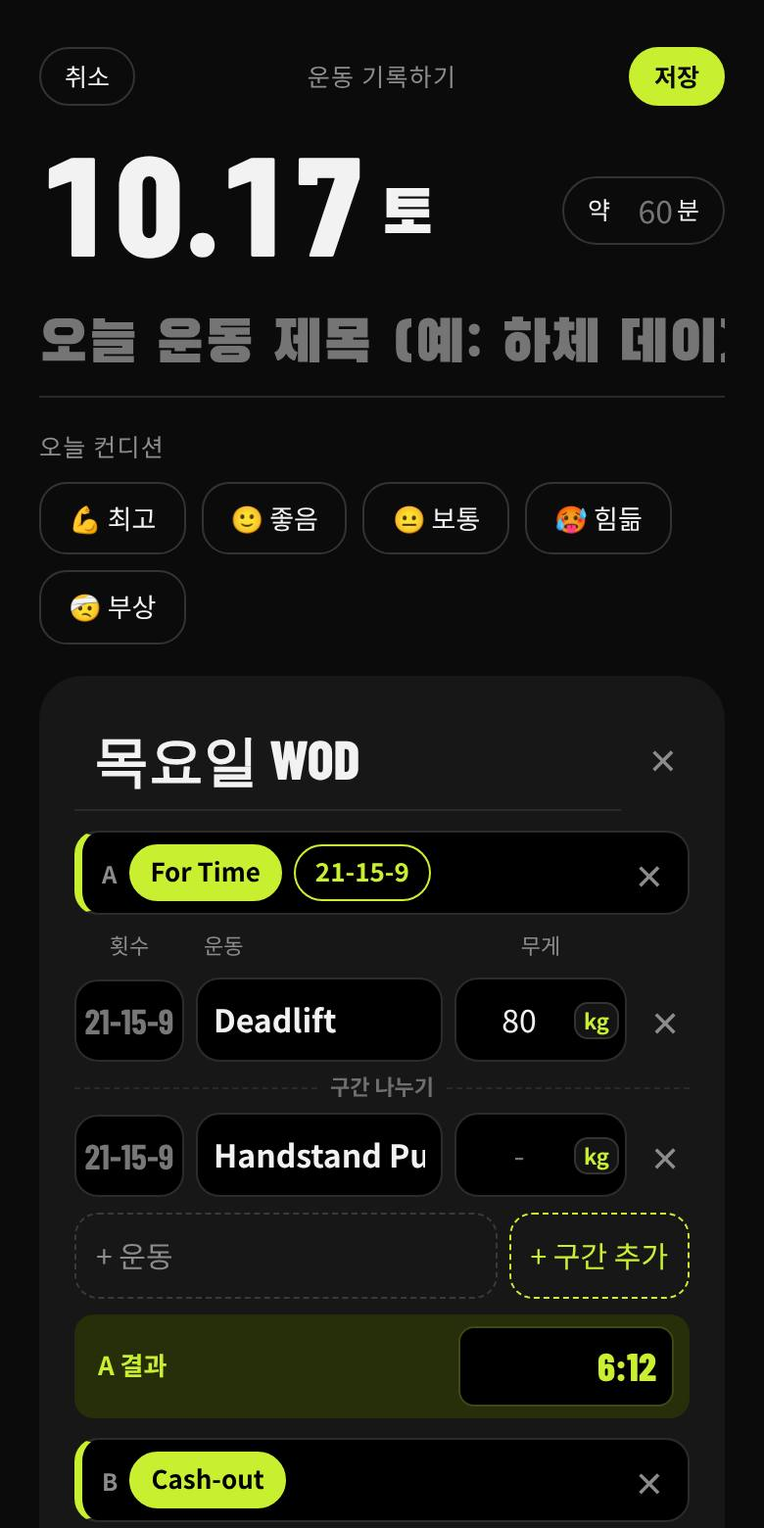
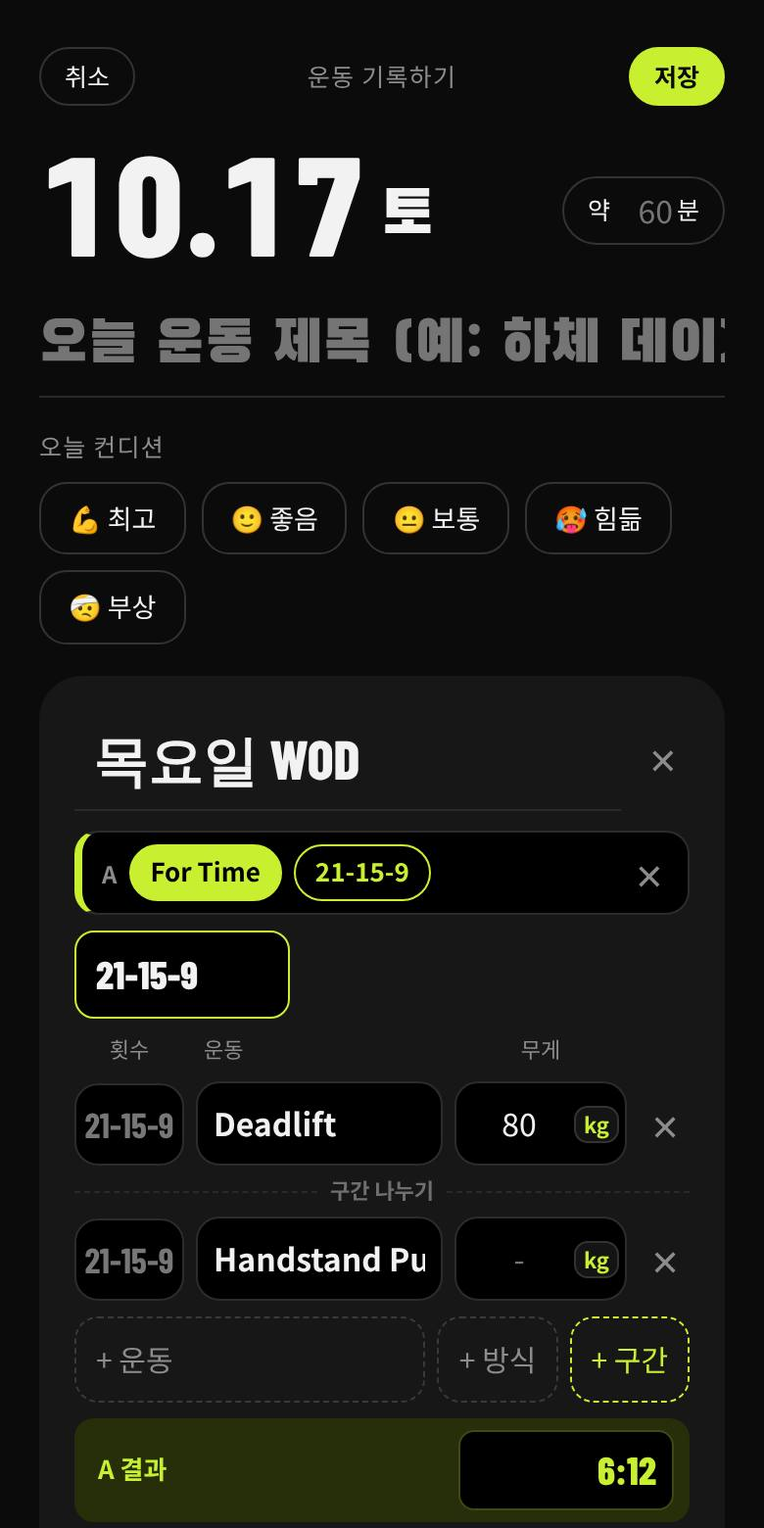
One 방식 chip list with multi-pick, n in a chip name gives a number box, + 방식 button
Claude-Session: https://claude.ai/code/session_019eoxjeUYsC1xCLQy9vy9QX

diff --git a/index.html b/index.html
@@ -345,7 +345,15 @@ const DEF_PATTERNS = [
 const patShape = t => t.tpl === 'N' ? t.label : t.tpl.replace('N', '□');
 const patLabel = p => !p ? '' : p.tpl ? (p.v ? p.tpl.replace('N', p.v) : patShape(p)) : p.kind === 'scheme' ? p.v : p.kind === 'rounds' ? `${p.v} 라운드` : `${p.v}분`;
 const schemeOf = p => p && (p.fill || p.kind === 'scheme') ? p.v || '' : '';
-const patFrom = (t, v) => t ? {t:t.id, label:t.label, tpl:t.tpl, fill:!!t.fill, v:v || ''} : null;
+const patFrom = (t, v) => t ? {t:t.id, label:t.label, tpl:t.tpl || t.label, fill:!!t.fill, ...(t.res ? {res:t.res} : {}), v:v || ''} : null;
+/* 방식 chips: formats and number chips ("N 라운드") are one list to the user; any number of them can be picked */
+const chipById = id => state.formats.find(x => x.id === id) || state.patterns.find(x => x.id === id);
+const chipKind = x => state.formats.includes(x) ? 'fmt' : 'pat';
+const chipText = x => x.tpl ? patShape(x) : x.label;
+const hasN = x => !!x.tpl && x.tpl.includes('N');
+/* "n 라운드", "Team of n", "AMRAP n분": a standalone n (or □) is the number typed on each record */
+const N_RE = /(^|[^A-Za-z])[Nn□_](?=[^A-Za-z]|$)/;
+const partRes = p => (p.fmt?.id !== 'none' && p.fmt?.res) || pList(p).map(x => x.res).find(Boolean) || 'text';
 const pList = p => p.pats || (p.pat ? [p.pat] : []);
 const patsLabel = p => pList(p).map(patLabel).filter(Boolean).join(' · ');
 const schemeOfP = p => pList(p).map(schemeOf).find(Boolean) || '';
@@ -547,7 +555,7 @@ function itemText(it) {
 }
 const summary = s => s.items.map(itemText).join(' · ');
 const setsText = (it, ex) => it.sets.map(x => it.fields.map(k => x[k] ? `${x[k]}${k === 'd' ? ex.unit : ''}` : '').filter(Boolean).join(' × ')).filter(Boolean).join(' · ');
-const resType = it => (it.parts?.length > 1 ? 'time' : it.parts?.[0]?.fmt?.res) || 'text';
+const resType = it => it.parts?.length > 1 ? 'time' : it.parts?.[0] ? partRes(it.parts[0]) : 'text';
 function fmtRes(v, type) {
   v = String(v || '').trim(); if (!v) return '';
   if (type === 'rr') { const m = v.match(/^(\d+)\s*[+rR]\s*\+?\s*(\d+)$/); if (m) return `${m[1]}R+${m[2]}`; if (/^\d+$/.test(v)) return `${v}R`; }
@@ -559,7 +567,7 @@ function wodResult(it) { const r = it.res || {};
   if (r.status === 'DNF') return `DNF${r.short ? ' -' + String(r.short).replace(/^-/, '') : ''}`;
   if (r.status === 'DONE') return r.v ? `DONE ${fmtRes(r.v, resType(it))}` : 'DONE';
   return fmtRes(r.v, resType(it)); }
-const partResult = p => p.res?.status === 'DONE' ? 'DONE' : fmtRes(p.res?.v, p.fmt?.res);
+const partResult = p => p.res?.status === 'DONE' ? 'DONE' : fmtRes(p.res?.v, partRes(p));
 const resScore = (v, type) => { v = String(v || ''); if (type === 'time') return -msToSec(v); if (type === 'rr') { const m = v.match(/^(\d+)\D*(\d+)?$/); return m ? +m[1] * 1000 + (+m[2] || 0) : NaN; } return parseFloat(v); };
 function bestWod(id, exceptSessionId) {
   if (!id) return null;
@@ -714,7 +722,7 @@ function newDraft(date, plan) {
 function exItem(id, date) { const ex = exById(id); const prev = prevSetsFor(id, date); return {type:'ex', id:uid(), exId:id, fields:[...ex.fields], wu:prev?.wu || U(), sets:prev ? prev.map(x => ({...x})) : [{}], prefilled:!!prev}; }
 const blankMove = () => ({n:'', exId:null, q:'', w:''});
 function wodItem(w) { return {type:'wod', id:uid(), wodId:w.id, name:w.name, scale:'Rx', res:{}, parts:w.parts.map(p => ({fmt:{...p.fmt}, pats:pList(p).map(x => ({...x})), res:{}, moves:p.moves.map(m => { const ex = (m.exId && exById(m.exId)) || findEx(m.n); return {n:ex?.name || m.n, exId:ex?.id || null, q:m.q || '', w:m.w || '', rx:m.w || ''}; })}))}; }
-const dailyItem = () => ({type:'wod', id:uid(), wodId:null, name:'', scale:'Rx', res:{}, parts:[{fmt:fmtCopy(state.formats[0] || DEF_FORMATS[0]), pats:[], res:{}, moves:[blankMove(), blankMove()]}]});
+const dailyItem = () => ({type:'wod', id:uid(), wodId:null, name:'', scale:'Rx', res:{}, parts:[{fmt:{...NO_FMT}, pats:[], res:{}, moves:[blankMove(), blankMove()]}]});
 /* the item list the WOD card is editing: a day's record, or a saved WOD template */
 const curItems = () => ui.page === 'tpl' ? ui.tdraft.items : ui.draft.items;
 function pageEdit() {
@@ -752,12 +760,34 @@ function exEditCard(it, i) {
 const findEx = name => state.exercises.find(e => exIs(e, name));
 /* WOD card: each part is a frame (format + pattern) followed by its exercises; a frame can be inserted between exercises */
 function usage() { const c = {}; for (const s of state.sessions) for (const it of s.items) { if (it.type === 'ex') c[it.exId] = (c[it.exId] || 0) + 1; else wodMoves(it).forEach(m => { if (m.exId) c[m.exId] = (c[m.exId] || 0) + 1; }); } return c; }
-/* one chip row: formats (pick one) and patterns (pick several); a pattern with N shows its number box below */
+/* one 방식 row: tap to pick or unpick, several at once; a chip with N shows its number box below */
+const chipList = () => [...state.formats, ...state.patterns];
+const chipOn = (fmtId, pats, x) => fmtId === x.id || pats.some(y => y.t === x.id);
 function frameChips(i, pi, p) {
-  const ed = ui.frEdit, ps = pList(p), on = t => ps.some(x => x.t === t.id);
-  if (ed) return `<div class="chips2">${state.formats.map(f => `<button class="c2" data-action="fr-edit" data-kind="fmt" data-id="${f.id}">${esc(f.label)}<span class="x" data-action="fr-del" data-kind="fmt" data-id="${f.id}" role="button" aria-label="${esc(f.label)} 삭제">✕</span></button>`).join('')}${state.patterns.map(t => `<button class="c2" data-action="fr-edit" data-kind="pat" data-id="${t.id}">${esc(patShape(t))}<span class="x" data-action="fr-del" data-kind="pat" data-id="${t.id}" role="button" aria-label="${esc(t.label)} 삭제">✕</span></button>`).join('')}<button class="c2 add" data-action="fr-edit" data-kind="fmt">+ 방식</button><button class="c2 add" data-action="fr-edit" data-kind="pat">+ 패턴</button></div>`;
-  return `<div class="chips2">${state.formats.map(f => `<button class="c2 ${p.fmt.id === f.id ? 'on' : ''}" data-action="set-fmt" data-i="${i}" data-pi="${pi}" data-v="${f.id}" data-lp="fmt:${f.id}">${esc(f.label)}</button>`).join('')}${state.patterns.map(t => `<button class="c2 ${on(t) ? 'val' : ''}" data-action="set-pat" data-i="${i}" data-pi="${pi}" data-v="${t.id}" data-lp="pat:${t.id}">${esc(patShape(t))}</button>`).join('')}<button class="c2 ${p.fmt.id === 'none' && !ps.length ? 'on' : ''}" data-action="set-fmt" data-i="${i}" data-pi="${pi}" data-v="none">없음</button></div>
-    ${ps.map((x, k) => { const t = state.patterns.find(y => y.id === x.t) || x; return patInput(t, x.v, `data-patv="${pi}" data-pk="${k}" data-i="${i}"`) + recentPat(t, `data-action="set-patv" data-i="${i}" data-pi="${pi}" data-pk="${k}"`); }).join('')}`;
+  const ps = pList(p);
+  if (ui.frEdit) return `<div class="chips2">${chipList().map(x => `<button class="c2" data-action="fr-edit" data-kind="${chipKind(x)}" data-id="${x.id}">${esc(chipText(x))}<span class="x" data-action="fr-del" data-kind="${chipKind(x)}" data-id="${x.id}" role="button" aria-label="${esc(x.label)} 삭제">✕</span></button>`).join('')}<button class="c2 add" data-action="fr-edit">+ 추가</button></div>`;
+  return `<div class="chips2">${chipList().map(x => `<button class="c2 ${chipOn(p.fmt.id, ps, x) ? 'on' : ''}" data-action="set-chip" data-i="${i}" data-pi="${pi}" data-v="${x.id}" data-lp="${chipKind(x)}:${x.id}">${esc(chipText(x))}</button>`).join('')}<button class="c2 ${p.fmt.id === 'none' && !ps.length ? 'on' : ''}" data-action="set-chip" data-i="${i}" data-pi="${pi}" data-v="none">없음</button></div>
+    ${patBoxes(i, pi, p)}`;
+}
+function patBoxes(i, pi, p, short) {
+  const ps = pList(p), dup = x => ps.filter(y => y.t === x.t).length > 1;
+  return ps.map((x, k) => hasN(x) ? `<div class="row" style="gap:6px">${patInput(chipById(x.t) || x, x.v, `data-patv="${pi}" data-pk="${k}" data-i="${i}"`)}${dup(x) ? `<button class="icon" data-action="pat-del" data-i="${i}" data-pi="${pi}" data-pk="${k}" aria-label="${esc(x.label)} 빼기">✕</button>` : ''}</div>` + (short ? '' : recentPat(chipById(x.t) || x, `data-action="set-patv" data-i="${i}" data-pi="${pi}" data-pk="${k}"`)) : '').join('');
+}
+/* "+ 방식": one more chip in the same group of exercises (21-15-9 and 42-30-18 together), no new section */
+function sheetChipAdd(i, pi) {
+  ui.sheet = () => sheetChipAdd(i, pi);
+  openSheet(`<div class="row between"><h2 class="disp" style="font-size:28px">방식 추가</h2><button class="pill" data-action="close-sheet">닫기</button></div>
+    <div class="sub" style="font-size:13px">구간을 나누지 않고 이 운동들에 방식을 하나 더 넣어요. 같은 칩도 여러 번 넣을 수 있어요. 예: 21-15-9 + 42-30-18</div>
+    <div class="chips2">${chipList().map(x => `<button class="c2" data-action="chip-add-pick" data-i="${i}" data-pi="${pi}" data-v="${x.id}">${esc(chipText(x))}</button>`).join('')}</div>`);
+}
+/* pick or unpick chip id on {fmt, pats}; the first picked format chip stays in fmt (it sets how the result is written) */
+function toggleChip(fmt, pats, id) {
+  if (id === 'none') return {fmt:NO_FMT, pats:[]};
+  const x = chipById(id); if (!x) return {fmt, pats};
+  if (fmt.id === id) { const k = pats.findIndex(y => state.formats.some(f => f.id === y.t)); if (k < 0) return {fmt:NO_FMT, pats}; const f = chipById(pats[k].t); return {fmt:f ? fmtCopy(f) : NO_FMT, pats:pats.filter((_, n) => n !== k)}; }
+  if (pats.some(y => y.t === id)) return {fmt, pats:pats.filter(y => y.t !== id)};
+  if (chipKind(x) === 'fmt' && fmt.id === 'none') return {fmt:fmtCopy(x), pats};
+  return {fmt, pats:[...pats, patFrom(x, '')]};
 }
 /* the number goes where N sits in the chip, e.g. "Team of [3]" */
 function patInput(t, v, attrs) {
@@ -776,15 +806,15 @@ function resInput(attrs, v, type) {
 function partHtml(it, i, p, pi) {
   const multi = it.parts.length > 1, scheme = schemeOfP(p);
   const head = multi
-    ? `<div class="fdiv"><span class="t">${String.fromCharCode(65 + pi)}</span><button class="c2 on" data-action="frame-edit" data-i="${i}" data-pi="${pi}">${esc(p.fmt.label || '방식 없음')}</button>${pList(p).map(x => `<button class="c2 val" data-action="frame-edit" data-i="${i}" data-pi="${pi}">${esc(patLabel(x))}</button>`).join('')}<span class="grow"></span><button class="icon" data-action="part-del" data-i="${i}" data-pi="${pi}" aria-label="${String.fromCharCode(65 + pi)} 구간 없애기">✕</button></div>`
+    ? `<div class="fdiv"><span class="t">${String.fromCharCode(65 + pi)}</span><button class="c2 on" data-action="frame-edit" data-i="${i}" data-pi="${pi}">${esc(p.fmt.label || '방식 없음')}</button>${pList(p).map(x => `<button class="c2 val" data-action="frame-edit" data-i="${i}" data-pi="${pi}">${esc(patLabel(x))}</button>`).join('')}<span class="grow"></span><button class="icon" data-action="part-del" data-i="${i}" data-pi="${pi}" aria-label="${String.fromCharCode(65 + pi)} 구간 없애기">✕</button></div>${patBoxes(i, pi, p, true)}`
     : `<div class="frame"><div class="row between"><span class="lbl">구성</span><button class="pill ${ui.frEdit ? 'lime' : ''}" style="font-size:12px;padding:3px 10px" data-action="fr-toggle">${ui.frEdit ? '완료' : '편집'}</button></div>${frameChips(i, pi, p)}${ui.frEdit ? '<div class="sub" style="font-size:12px">칩을 누르면 수정, ✕는 삭제예요. 칩을 꾹 누르면 순서도 바꿀 수 있어요.</div>' : ''}</div>`;
   const ord = ui.mvOrder === i, first = pi === 0, last = pi === it.parts.length - 1;
   const rows = ord ? p.moves.map((m, j) => `<div class="mvo"><span class="q">${esc(qTxt(m.q) || scheme || '')}</span><span class="t">${esc(m.n || '(빈 칸)')}</span>${m.w ? `<span class="w">${esc(m.w)}</span>` : ''}<button class="icon" data-action="mv-move" data-i="${i}" data-pi="${pi}" data-j="${j}" data-d="-1" ${first && j === 0 ? 'disabled' : ''} aria-label="${j+1}번 위로">↑</button><button class="icon" data-action="mv-move" data-i="${i}" data-pi="${pi}" data-j="${j}" data-d="1" ${last && j === p.moves.length - 1 ? 'disabled' : ''} aria-label="${j+1}번 아래로">↓</button></div>`).join('')
     : p.moves.map((m, j) => `<div class="mv"><input class="q" data-mv="${j}" data-pi="${pi}" data-i="${i}" data-k="q" value="${esc(m.q)}" placeholder="${esc(scheme || '10')}" aria-label="${j+1}번 횟수"><input class="ex" data-mv="${j}" data-pi="${pi}" data-i="${i}" data-k="n" value="${esc(m.n)}" placeholder="운동" aria-label="${j+1}번 운동"><div class="wcell"><input class="w" data-mv="${j}" data-pi="${pi}" data-i="${i}" data-k="w" value="${esc(wNum(m.w))}" placeholder="-" aria-label="${j+1}번 무게"><button class="wu" data-action="mv-wu" data-i="${i}" data-pi="${pi}" data-j="${j}" aria-label="${j+1}번 무게 단위 바꾸기">${mvUnit(m)}</button></div><button class="icon" data-action="mv-del" data-i="${i}" data-pi="${pi}" data-j="${j}" aria-label="${j+1}번 운동 빼기">✕</button></div>
       <div class="sug" id="sug-${i}-${pi}-${j}"></div>${j < p.moves.length - 1 ? `<button class="ins" data-action="frame-insert" data-i="${i}" data-pi="${pi}" data-j="${j + 1}" aria-label="여기서 구간 나누기"><b>구간 나누기</b></button>` : ''}`).join('');
-  const pres = multi ? `<div class="secres"><span>${String.fromCharCode(65 + pi)} 결과</span>${p.fmt.res === 'done' ? `<button class="mini-p ${p.res?.status === 'DONE' ? 'on' : ''}" data-action="part-done" data-i="${i}" data-pi="${pi}">DONE</button>` : resInput(`data-pres="${pi}" data-i="${i}" aria-label="${String.fromCharCode(65 + pi)} 결과"`, p.res?.v, p.fmt.res)}</div>` : '';
+  const pres = multi ? `<div class="secres"><span>${String.fromCharCode(65 + pi)} 결과</span>${partRes(p) === 'done' ? `<button class="mini-p ${p.res?.status === 'DONE' ? 'on' : ''}" data-action="part-done" data-i="${i}" data-pi="${pi}">DONE</button>` : resInput(`data-pres="${pi}" data-i="${i}" aria-label="${String.fromCharCode(65 + pi)} 결과"`, p.res?.v, partRes(p))}</div>` : '';
   return `<div class="part">${head}${ord ? '' : '<div class="mv hd"><div>횟수</div><div>운동</div><div>무게</div><div></div></div>'}${rows}
-    ${ord ? (last ? `<button class="addex" style="color:#000;background:var(--lime);border-color:var(--lime);text-align:center;font-weight:700" data-action="mv-order" data-i="${i}">순서 바꾸기 완료</button>` : '') : `<div class="row" style="gap:6px"><button class="addex grow" data-action="mv-add" data-i="${i}" data-pi="${pi}">+ 운동</button>${last && wodMoves(it).length > 1 ? `<button class="addex" data-action="mv-order" data-i="${i}">순서</button>` : ''}<button class="addex" style="color:var(--lime);border-color:var(--lime)" data-action="frame-insert" data-i="${i}" data-pi="${pi}" data-j="${p.moves.length}">+ 구간 추가</button></div>`}
+    ${ord ? (last ? `<button class="addex" style="color:#000;background:var(--lime);border-color:var(--lime);text-align:center;font-weight:700" data-action="mv-order" data-i="${i}">순서 바꾸기 완료</button>` : '') : `<div class="row" style="gap:6px"><button class="addex grow" data-action="mv-add" data-i="${i}" data-pi="${pi}">+ 운동</button>${last && wodMoves(it).length > 1 ? `<button class="addex" data-action="mv-order" data-i="${i}">순서</button>` : ''}<button class="addex" data-action="chip-add" data-i="${i}" data-pi="${pi}">+ 방식</button><button class="addex" style="color:var(--lime);border-color:var(--lime)" data-action="frame-insert" data-i="${i}" data-pi="${pi}" data-j="${p.moves.length}">+ 구간</button></div>`}
     ${scheme && !multi ? `<div class="note">횟수는 구성(${esc(scheme)})에서 자동으로 채워져요</div>` : ''}${pres}</div>`;
 }
 /* live preview of what is being recorded, shown in the result box and redrawn on every keystroke */
@@ -851,10 +881,8 @@ function pagePlan() {
 /* wod tab */
 function framesHtml() {
   return `<div class="card" style="display:flex;flex-direction:column;gap:10px">
-    <div class="row between"><b>방식</b><span class="sub" style="font-size:12px">누르면 수정 · ✕ 삭제</span></div>
-    <div class="chips2">${state.formats.map(f => `<button class="c2" data-action="fr-edit" data-kind="fmt" data-id="${f.id}" data-lp="fmt:${f.id}">${esc(f.label)}<span class="sub" style="font-size:11px;margin-left:5px">${RES_TYPES[f.res]?.label || ''}</span><span class="x" data-action="fr-del" data-kind="fmt" data-id="${f.id}" role="button" aria-label="${esc(f.label)} 삭제">✕</span></button>`).join('')}<button class="c2 add" data-action="fr-edit" data-kind="fmt">+ 추가</button></div>
-    <div class="row between" style="margin-top:6px"><b>패턴</b></div>
-    <div class="chips2">${state.patterns.map(t => `<button class="c2" data-action="fr-edit" data-kind="pat" data-id="${t.id}" data-lp="pat:${t.id}">${esc(patShape(t))}<span class="x" data-action="fr-del" data-kind="pat" data-id="${t.id}" role="button" aria-label="${esc(t.label)} 삭제">✕</span></button>`).join('')}<button class="c2 add" data-action="fr-edit" data-kind="pat">+ 추가</button></div>
+    <div class="row between"><b>방식</b><span class="sub" style="font-size:12px">누르면 수정 · ✕ 삭제 · 여러 개 골라 써요</span></div>
+    <div class="chips2">${chipList().map(x => `<button class="c2" data-action="fr-edit" data-kind="${chipKind(x)}" data-id="${x.id}" data-lp="${chipKind(x)}:${x.id}">${esc(chipText(x))}${x.res ? `<span class="sub" style="font-size:11px;margin-left:5px">${RES_TYPES[x.res]?.label || ''}</span>` : ''}<span class="x" data-action="fr-del" data-kind="${chipKind(x)}" data-id="${x.id}" role="button" aria-label="${esc(x.label)} 삭제">✕</span></button>`).join('')}<button class="c2 add" data-action="fr-edit">+ 추가</button></div>
     <button class="btn out small" style="border-color:#333;color:var(--mut)" data-action="fr-reset">${ui.confirm === 'fr-reset' ? '한 번 더 누르면 기본 구성으로 되돌려요' : '기본 구성으로 되돌리기'}</button></div>
     <div class="sub" style="font-size:12px">구성을 지우거나 고쳐도 이미 저장한 기록은 그대로예요.</div>`;
 }
@@ -1029,8 +1057,8 @@ function sheetFrame() {
   const f = ui.frame;
   openSheet(`<div class="row between"><h2 class="disp" style="font-size:28px">${f.mode === 'insert' ? '구간 나누기' : '구성 바꾸기'}</h2><button class="pill solid" data-action="frame-apply">${f.mode === 'insert' ? '넣기' : '적용'}</button></div>
     <div class="row between"><span class="lbl">구성</span><button class="pill" style="font-size:12px;padding:3px 10px" data-action="frames-open">구성 편집</button></div>
-    <div class="chips2">${state.formats.map(x => `<button class="c2 ${f.fmt === x.id ? 'on' : ''}" data-action="frame-fmt" data-v="${x.id}" data-lp="fmt:${x.id}">${esc(x.label)}</button>`).join('')}${state.patterns.map(t => `<button class="c2 ${f.pats.some(x => x.t === t.id) ? 'val' : ''}" data-action="frame-pat" data-v="${t.id}" data-lp="pat:${t.id}">${esc(patShape(t))}</button>`).join('')}<button class="c2 ${f.fmt === 'none' && !f.pats.length ? 'on' : ''}" data-action="frame-fmt" data-v="none">없음</button></div>
-    ${f.pats.map((x, k) => { const t = state.patterns.find(y => y.id === x.t); return t ? patInput(t, x.v, `data-framepv="${k}"`) + recentPat(t, `data-action="frame-pv" data-pk="${k}"`) : ''; }).join('')}
+    <div class="chips2">${chipList().map(x => `<button class="c2 ${chipOn(f.fmt, f.pats, x) ? 'on' : ''}" data-action="frame-chip" data-v="${x.id}" data-lp="${chipKind(x)}:${x.id}">${esc(chipText(x))}</button>`).join('')}<button class="c2 ${f.fmt === 'none' && !f.pats.length ? 'on' : ''}" data-action="frame-chip" data-v="none">없음</button></div>
+    ${f.pats.map((x, k) => { const t = chipById(x.t); return t && hasN(t) ? patInput(t, x.v, `data-framepv="${k}"`) + recentPat(t, `data-action="frame-pv" data-pk="${k}"`) : ''; }).join('')}
     ${f.mode === 'insert' && f.below ? `<div class="sub" style="font-size:13px">아래에 있는 ${esc(f.below)}부터 새 구간이 시작돼요</div>` : ''}`);
 }
 function sheetTabs() {
@@ -1049,22 +1077,20 @@ function sheetFrames() {
 }
 function sheetFrEdit() {
   ui.sheet = sheetFrEdit;
-  const d = ui.fe, isF = d.kind === 'fmt';
-  openSheet(`<div class="row between"><h2 class="disp" style="font-size:28px">${isF ? '방식' : '패턴'} ${d.id ? '수정' : '추가'}</h2><button class="pill solid" data-action="fe-save">저장</button></div>
-    ${isF ? `<label class="field"><span class="lbl">칩에 보일 글자</span><input class="inp" id="feLabel" data-fe="label" value="${esc(d.label)}" placeholder="예: Chipper"></label>
-      <div class="field"><span class="lbl">결과는 어떻게 적어요?</span><div class="opt">${Object.entries(RES_TYPES).map(([k, r]) => `<button class="${d.res === k ? 'on' : ''}" data-action="fe-res" data-v="${k}">${r.label} <span>(${r.ex})</span></button>`).join('')}</div></div>
-      <label class="field"><span class="lbl">메모 (선택)</span><input class="inp" id="feNote" data-fe="note" value="${esc(d.note || '')}" placeholder="이 방식 설명"></label>`
-    : `<label class="field"><span class="lbl">칩 모양 (숫자 자리는 N)</span><input class="inp" id="feTpl" data-fe="tpl" value="${esc(d.tpl)}" placeholder="Team of N"></label>
-      <label class="field"><span class="lbl">칩에 보일 글자</span><input class="inp" id="feLabel" data-fe="label" value="${esc(d.label)}" placeholder="예: 팀 인원"></label>
-      <div class="field"><span class="lbl">숫자를 운동 줄 횟수에도 채울까요?</span><div class="opt">${[[false, '아니요 (5 라운드처럼)'], [true, '네 (21-15-9처럼)']].map(([v, l]) => `<button class="${!!d.fill === v ? 'on' : ''}" data-action="fe-fill" data-v="${v ? 1 : ''}">${l}</button>`).join('')}</div></div>
-      <div class="sub" style="font-size:13px">숫자는 저장하지 않아요. 기록할 때마다 칩 옆 칸에 적어요. 예: ${esc((d.tpl || 'Team of N').replace('N', '3'))}</div>`}
+  const d = ui.fe, n = N_RE.test(d.name || '');
+  openSheet(`<div class="row between"><h2 class="disp" style="font-size:28px">방식 ${d.id ? '수정' : '추가'}</h2><button class="pill solid" data-action="fe-save">저장</button></div>
+    <label class="field"><span class="lbl">칩 이름 (그때그때 숫자를 적을 자리는 n)</span><input class="inp" id="feName" data-fe="name" value="${esc(d.name)}" placeholder="예: Chipper, n 라운드, Team of n"></label>
+    <div class="sub" style="font-size:13px" id="feHint">${n ? `기록할 때 n 자리에 숫자 칸이 떠요. 예: ${esc(d.name.replace(N_RE, '$13'))}` : 'n을 넣으면 기록할 때 숫자를 적는 칸이 떠요.'}</div>
+    <div class="field"><span class="lbl">결과는 어떻게 적어요?</span><div class="opt"><button class="${!d.res ? 'on' : ''}" data-action="fe-res" data-v="">정하지 않음 <span>(다른 칩을 따라가요)</span></button>${Object.entries(RES_TYPES).map(([k, r]) => `<button class="${d.res === k ? 'on' : ''}" data-action="fe-res" data-v="${k}">${r.label} <span>(${r.ex})</span></button>`).join('')}</div></div>
+    ${n ? `<div class="field"><span class="lbl">숫자를 운동 줄 횟수에도 채울까요?</span><div class="opt">${[[false, '아니요 (5 라운드처럼)'], [true, '네 (21-15-9처럼)']].map(([v, l]) => `<button class="${!!d.fill === v ? 'on' : ''}" data-action="fe-fill" data-v="${v ? 1 : ''}">${l}</button>`).join('')}</div></div>` : ''}
+    <label class="field"><span class="lbl">메모 (선택)</span><input class="inp" id="feNote" data-fe="note" value="${esc(d.note || '')}" placeholder="이 방식 설명"></label>
     ${d.id ? `<button class="btn danger small" data-action="fe-del">${ui.confirm === 'fe-del' ? '한 번 더 누르면 삭제' : '삭제'}</button>` : ''}`);
 }
 function sheetChipMenu(kind, id) {
   ui.sheet = () => sheetChipMenu(kind, id);
-  const x = (kind === 'fmt' ? state.formats : state.patterns).find(v => v.id === id); if (!x) return closeSheet();
-  openSheet(`<h2 class="disp" style="font-size:28px">${esc(kind === 'fmt' ? x.label : patShape(x))}</h2>
-    <div class="menu"><button data-action="fr-edit" data-kind="${kind}" data-id="${id}">수정<span>이름, ${kind === 'fmt' ? '결과 방식' : '숫자'}</span></button>
+  const x = chipById(id); if (!x) return closeSheet(); kind = chipKind(x);
+  openSheet(`<h2 class="disp" style="font-size:28px">${esc(chipText(x))}</h2>
+    <div class="menu"><button data-action="fr-edit" data-kind="${kind}" data-id="${id}">수정<span>이름, 결과 방식</span></button>
       <button data-action="fr-copy" data-kind="${kind}" data-id="${id}">복사해서 새로 만들기<span></span></button>
       <button data-action="fr-up" data-kind="${kind}" data-id="${id}">앞으로 옮기기<span>칩 순서</span></button>
       <button data-action="fr-del" data-kind="${kind}" data-id="${id}" style="color:var(--red)">삭제<span>지난 기록은 그대로</span></button></div>`);
@@ -1174,6 +1200,16 @@ const A = {
   'add-ex': el => { const it = exItem(el.dataset.id, ui.draft.date); ui.draft.items.push(it); closeSheet(); render(true); toast(it.prefilled ? '지난 기록을 채웠어요' : '운동을 추가했어요'); setTimeout(() => $('#screen').scrollTo({top:$('#screen').scrollHeight, behavior:'smooth'}), 30); },
   'record-daily': () => { const d = newDraft(recordDate()); openEditor(d); A['add-daily'](); },
   'add-daily': () => { ui.draft.items.push(dailyItem()); closeSheet(); render(true); setTimeout(() => { const t = document.querySelectorAll('[data-wn]'); t[t.length - 1]?.closest('.card')?.scrollIntoView({block:'start'}); }, 30); },
+  'chip-add': el => sheetChipAdd(+el.dataset.i, +el.dataset.pi),
+  'chip-add-pick': el => { const i = el.dataset.i, pi = el.dataset.pi, p = curItems()[+i].parts[+pi], x = chipById(el.dataset.v); if (!x) return;
+    const before = partRes(p); p.pats = pList(p); delete p.pat;
+    if (chipKind(x) === 'fmt' && p.fmt.id === 'none') p.fmt = fmtCopy(x); else p.pats.push(patFrom(x, ''));
+    if (partRes(p) !== before) p.res = {}; closeSheet(); render(true);
+    if (hasN(x)) { const b = document.querySelectorAll(`[data-patv="${pi}"][data-i="${i}"]`); b[b.length - 1]?.focus(); } else toast(`${x.label}을(를) 넣었어요`); },
+  'pat-del': el => { const p = curItems()[+el.dataset.i].parts[+el.dataset.pi]; p.pats = pList(p).filter((_, k) => k !== +el.dataset.pk); delete p.pat; render(true); },
+  'set-chip': el => { const p = curItems()[+el.dataset.i].parts[+el.dataset.pi], before = partRes(p), n = toggleChip(p.fmt, pList(p), el.dataset.v);
+    p.fmt = n.fmt; p.pats = n.pats; delete p.pat; if (partRes(p) !== before) p.res = {};
+    render(true); const k = p.pats.findIndex(y => y.t === el.dataset.v); if (k >= 0 && hasN(p.pats[k])) document.querySelector(`[data-patv="${el.dataset.pi}"][data-pk="${k}"][data-i="${el.dataset.i}"]`)?.focus(); },
   'set-fmt': el => { const p = curItems()[+el.dataset.i].parts[+el.dataset.pi], f = fmtFind(el.dataset.v); if (f) { p.fmt = fmtCopy(f); p.res = {}; } if (el.dataset.v === 'none') { p.pats = []; delete p.pat; } render(true); },
   'set-pat': el => { const p = curItems()[+el.dataset.i].parts[+el.dataset.pi], t = state.patterns.find(x => x.id === el.dataset.v);
     p.pats = pList(p); delete p.pat; const k = t ? p.pats.findIndex(x => x.t === t.id) : -1;
@@ -1195,15 +1231,16 @@ const A = {
   'mv-quick': el => { const it = curItems()[+el.dataset.i], p = it.parts[it.parts.length - 1], ex = exById(el.dataset.id); if (!ex) return;
     const empty = p.moves.find(m => !m.n.trim()); if (empty) { empty.n = ex.name; empty.exId = ex.id; } else p.moves.push({...blankMove(), n:ex.name, exId:ex.id}); render(true); },
   'frame-insert': el => { const it = curItems()[+el.dataset.i], pi = +el.dataset.pi, j = +el.dataset.j, p = it.parts[pi];
-    ui.frame = {mode:'insert', i:+el.dataset.i, pi, j, fmt:p.fmt.id, pats:[], below:p.moves[j]?.n || ''}; sheetFrame(); },
+    ui.frame = {mode:'insert', i:+el.dataset.i, pi, j, fmt:'none', pats:[], below:p.moves[j]?.n || ''}; sheetFrame(); },
   'frame-edit': el => { const p = curItems()[+el.dataset.i].parts[+el.dataset.pi];
     ui.frame = {mode:'edit', i:+el.dataset.i, pi:+el.dataset.pi, fmt:p.fmt.id, pats:pList(p).map(x => ({t:x.t, v:x.v}))}; sheetFrame(); },
+  'frame-chip': el => { const f = ui.frame, n = toggleChip(fmtFind(f.fmt) || NO_FMT, f.pats.map(x => ({...patFrom(chipById(x.t), x.v), t:x.t})), el.dataset.v); f.fmt = n.fmt.id; f.pats = n.pats.map(x => ({t:x.t, v:x.v})); refreshSheet(); },
   'frame-fmt': el => { ui.frame.fmt = el.dataset.v; if (el.dataset.v === 'none') ui.frame.pats = []; refreshSheet(); },
   'frame-pat': el => { const f = ui.frame, v = el.dataset.v, k = f.pats.findIndex(x => x.t === v);
     if (!v) f.pats = []; else if (k >= 0) f.pats.splice(k, 1); else f.pats.push({t:v, v:''});
     refreshSheet(); if (v && k < 0) document.querySelector(`[data-framepv="${f.pats.length - 1}"]`)?.focus(); },
   'frame-pv': el => { ui.frame.pats[+el.dataset.pk].v = el.dataset.v; refreshSheet(); },
-  'frame-apply': () => { const f = ui.frame, it = curItems()[f.i], fm = fmtFind(f.fmt) || state.formats[0], pats = f.pats.map(x => patFrom(state.patterns.find(y => y.id === x.t), x.v)).filter(Boolean);
+  'frame-apply': () => { const f = ui.frame, it = curItems()[f.i], fm = fmtFind(f.fmt) || state.formats[0], pats = f.pats.map(x => patFrom(chipById(x.t), x.v)).filter(Boolean);
     if (f.mode === 'insert') { const p = it.parts[f.pi], moved = f.j < p.moves.length ? p.moves.splice(f.j) : [blankMove()];
       it.parts.splice(f.pi + 1, 0, {fmt:fmtCopy(fm), pats, res:{}, moves:moved}); if (!p.moves.length) p.moves.push(blankMove()); }
     else { const p = it.parts[f.pi]; if (p.fmt.id !== fm.id) p.res = {}; p.fmt = fmtCopy(fm); p.pats = pats; delete p.pat; }
@@ -1224,7 +1261,7 @@ const A = {
     if (sel.length < 1) { toast('묶을 운동을 골라 주세요'); return; }
     const moves = sel.map(i => { const it = items[i], ex = exById(it.exId) || {name:'', unit:'km'}, s0 = it.sets.find(x => Object.values(x).some(Boolean)) || {};
       return {n:ex.name, exId:it.exId, q:s0.r ? String(s0.r) : s0.d ? `${s0.d}${ex.unit}` : s0.t || '', w:s0.w ? `${s0.w}${wuOf(it)}` : ''}; });
-    const w = {...dailyItem(), parts:[{fmt:fmtCopy(state.formats[0] || DEF_FORMATS[0]), pats:[], res:{}, moves}]};
+    const w = {...dailyItem(), parts:[{fmt:{...NO_FMT}, pats:[], res:{}, moves}]};
     items.splice(sel[0], 1, w); for (const i of sel.slice(1).reverse()) items.splice(i, 1);
     ui.grouping = false; ui.groupSel = []; render(true); toast('WOD로 묶었어요. 구성과 결과를 적어 주세요'); },
   'add-wod': el => { ui.draft.items.push(wodItem(wodById(el.dataset.id))); if (!ui.draft.title) ui.draft.title = `WOD · ${wodById(el.dataset.id).name}`; closeSheet(); render(true); },
@@ -1284,20 +1321,21 @@ const A = {
   'fr-toggle': () => { ui.frEdit = !ui.frEdit; render(true); },
   'frames-open': () => sheetFrames(),
   'frames-back': () => { if (ui.frame && ui.page) sheetFrame(); else closeSheet(); },
-  'fr-edit': el => { const k = el.dataset.kind, x = el.dataset.id && (k === 'fmt' ? state.formats : state.patterns).find(v => v.id === el.dataset.id);
+  'fr-edit': el => { const x = el.dataset.id && chipById(el.dataset.id);
     if (!String(ui.sheet || '').includes('sheetChipMenu')) ui.feBack = ui.sheet; ui.confirm = null;
-    ui.fe = k === 'fmt' ? {kind:k, id:x?.id || null, label:x?.label || '', res:x?.res || 'time', note:x?.note || ''} : {kind:k, id:x?.id || null, label:x?.label || '', tpl:x?.tpl || '', fill:!!x?.fill, ph:x?.ph || ''}; sheetFrEdit(); },
-  'fr-copy': el => { A['fr-edit'](el); ui.fe.id = null; if (ui.fe.label) ui.fe.label += ' 2'; sheetFrEdit(); },
+    ui.fe = {id:x?.id || null, name:!x ? '' : x.tpl === 'N' ? x.label : x.tpl ? x.tpl.replace('N', 'n') : x.label, res:x ? x.res || '' : 'time', note:x?.note || '', fill:!!x?.fill, ph:x?.ph || ''}; sheetFrEdit(); },
+  'fr-copy': el => { A['fr-edit'](el); ui.fe.id = null; if (ui.fe.name) ui.fe.name += ' 2'; sheetFrEdit(); },
   'fe-res': el => { ui.fe.res = el.dataset.v; refreshSheet(); },
   'fe-fill': el => { ui.fe.fill = !!el.dataset.v; refreshSheet(); },
-  'fe-save': () => { const d = ui.fe;
-    if (d.kind === 'fmt') { if (!d.label.trim()) { toast('이름을 적어 주세요'); return; } const x = {id:d.id || 'f' + uid(), label:d.label.trim(), res:d.res, note:(d.note || '').trim()};
-      if (d.id) state.formats[state.formats.findIndex(f => f.id === d.id)] = x; else state.formats.push(x); }
-    else { let tpl = String(d.tpl || '').trim().replace(/[□_]/g, 'N'); if (!tpl) { toast('칩 모양을 적어 주세요'); return; } if (!tpl.includes('N')) tpl += ' N';
-      const x = {id:d.id || 'p' + uid(), label:(d.label || '').trim() || tpl.replace('N', '').trim(), tpl, fill:!!d.fill, ph:d.ph || (d.fill ? '21-15-9' : '3')};
-      if (d.id) state.patterns[state.patterns.findIndex(t => t.id === d.id)] = x; else state.patterns.push(x); }
-    save(); afterFrameEdit(d.id ? '구성을 고쳤어요' : '구성을 추가했어요'); },
-  'fe-del': () => { if (ui.confirm !== 'fe-del') { ui.confirm = 'fe-del'; return refreshSheet(); } ui.confirm = null; delFrame(ui.fe.kind, ui.fe.id); },
+  'fe-save': () => { const d = ui.fe, name = (d.name || '').trim(); if (!name) { toast('이름을 적어 주세요'); return; }
+    const old = d.id && chipById(d.id), id = d.id || 'f' + uid(); let x;
+    if (old && old.tpl === 'N' && name === old.label) x = {...old, res:d.res, note:(d.note || '').trim(), fill:!!d.fill};
+    else if (N_RE.test(name)) { const tpl = name.replace(N_RE, '$1N'); x = {id, label:tpl.replace('N', '').replace(/\s+/g, ' ').trim() || name, tpl, fill:!!d.fill, ph:d.ph || (d.fill ? '21-15-9' : '3'), note:(d.note || '').trim()}; if (d.res) x.res = d.res; }
+    else x = {id, label:name, res:d.res, note:(d.note || '').trim()};
+    const to = x.tpl ? state.patterns : state.formats, from = old ? (state.formats.includes(old) ? state.formats : state.patterns) : null;
+    if (from === to) to[to.indexOf(old)] = x; else { if (from) from.splice(from.indexOf(old), 1); to.push(x); }
+    save(); afterFrameEdit(d.id ? '방식을 고쳤어요' : '방식을 추가했어요'); },
+  'fe-del': () => { if (ui.confirm !== 'fe-del') { ui.confirm = 'fe-del'; return refreshSheet(); } ui.confirm = null; const x = chipById(ui.fe.id); if (x) delFrame(chipKind(x), x.id); },
   'fr-del': el => delFrame(el.dataset.kind, el.dataset.id),
   'fr-up': el => { const list = el.dataset.kind === 'fmt' ? state.formats : state.patterns, i = list.findIndex(v => v.id === el.dataset.id); if (i > 0) [list[i - 1], list[i]] = [list[i], list[i - 1]]; save(); afterFrameEdit('앞으로 옮겼어요'); },
   'fr-reset': () => { if (ui.confirm !== 'fr-reset') { ui.confirm = 'fr-reset'; render(true); return refreshSheet(); } state.formats = DEF_FORMATS.map(f => ({...f})); state.patterns = DEF_PATTERNS.map(p => ({...p})); ui.confirm = null; save(); render(true); refreshSheet(); toast('기본 구성으로 되돌렸어요'); },

diff --git a/sw.js b/sw.js
@@ -1,4 +1,4 @@
-const C = 'setlog-1792337316108';
+const C = 'setlog-1792338128144';
 const CORE = ['./', 'index.html', 'manifest.webmanifest', 'icon-192.png', 'icon-512.png', 'apple-touch-icon.png', 'guide/1.jpg', 'guide/2.jpg', 'guide/3.jpg', 'guide/4.jpg', 'guide/5.jpg'];
 self.addEventListener('install', e => { e.waitUntil(caches.open(C).then(c => c.addAll(CORE)).then(() => self.skipWaiting())); });
 self.addEventListener('activate', e => { e.waitUntil(caches.keys().then(ks => Promise.all(ks.filter(k => k !== C).map(k => caches.delete(k)))).then(() => self.clients.claim())); });
